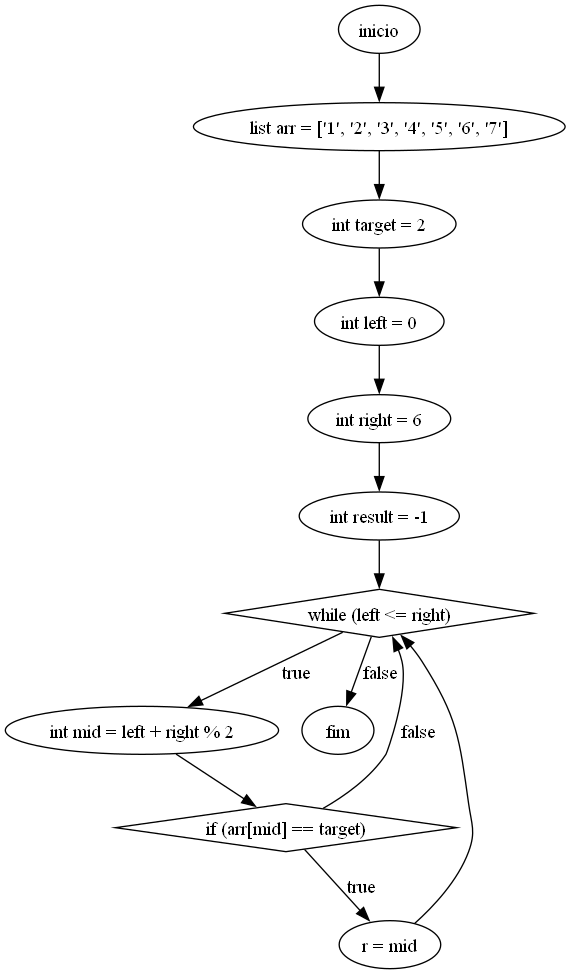
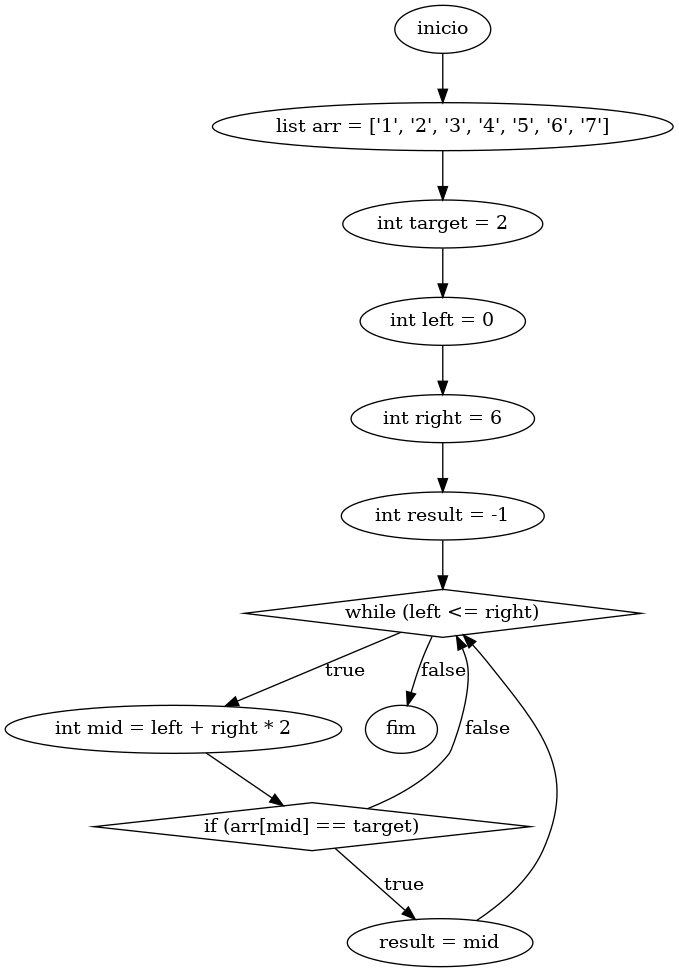
Correções nas atribuições

diff --git a/Projetos/TP2/analise.html b/Projetos/TP2/analise.html
@@ -5,9 +5,9 @@ int right = 6
 int result = -1
 
 while(left <= right){
-    int mid = (left + right)%2
+    int mid = (left + right)*2
 
     if (arr[mid] == target){
         result = mid
     }
-}</code></pre><h2>Variables and Types Used</h2><table border='1'><tr><th>Variable Name</th> <th>Type</th> <th>Value</th> <th>Used?</th></tr><tr><td>arr</td> <td>list</td> <td>[1, 2, 3, 4, 5, 6, 7]</td> <td>False</td></tr><tr><td>target</td> <td>int</td> <td>2</td> <td>True</td></tr><tr><td>left</td> <td>int</td> <td>0</td> <td>True</td></tr><tr><td>right</td> <td>int</td> <td>6</td> <td>True</td></tr><tr><td>result</td> <td>int</td> <td>0</td> <td>False</td></tr><tr><td>mid</td> <td>int</td> <td>0</td> <td>True</td></tr></table></body><h2>Errors</h2><table border='1'><tr><th style='background-color: #8B0000; color: white;'>Variable</th> <th style='background-color: #8B0000; color: white;'>Type</th> <th style='background-color: #8B0000; color: white;'>Description</th></tr><tr><td>arr[mid]</td> <td>Missing</td> <td>Variable arr[mid] isn't declared for use</td></tr></table></body><h2>Number of Variables Declared per Type</h2><table border='1'><tr><th>Type</th> <th>Vars</th> <th>Number</th></tr><tr><td>list</td> <td>arr</td> <td>1</td></tr><tr><td>int</td> <td>target, left, right, result, mid</td> <td>5</td></tr></table></body><h2>Number of Instructions Found in the Code</h2><table border='1'><tr><th>Type</th> <th>Number</th></tr><tr><td>Attributions</td> <td>1</td></tr><tr><td>Declarations</td> <td>6</td></tr><tr><td>Selections</td> <td>2</td></tr><tr><td>Cycles</td> <td>0</td></tr></table></body><h2>Number of Control Structures Nested Within Other Control Structures</h2><ul><li><p style='font-size:24px;'>Found <b>1</b> nested control structures.</p></li></ul><h2>Nested 'If' Conditions That Can be Combined</h2><table border='1'><tr><th>Suggestion</th></tr></table></body><h2>CFG Graph of the code</h2><img src="graph.png" alt="Graph"></html>
+}</code></pre><h2>Variables and Types Used</h2><table border='1'><tr><th>Variable Name</th> <th>Type</th> <th>Value</th> <th>Used?</th></tr><tr><td>arr</td> <td>list</td> <td>[1, 2, 3, 4, 5, 6, 7]</td> <td>False</td></tr><tr><td>target</td> <td>int</td> <td>2</td> <td>True</td></tr><tr><td>left</td> <td>int</td> <td>0</td> <td>True</td></tr><tr><td>right</td> <td>int</td> <td>6</td> <td>True</td></tr><tr><td>result</td> <td>int</td> <td>12</td> <td>False</td></tr><tr><td>mid</td> <td>int</td> <td>12</td> <td>True</td></tr></table></body><h2>Errors</h2><table border='1'><tr><th style='background-color: #8B0000; color: white;'>Variable</th> <th style='background-color: #8B0000; color: white;'>Type</th> <th style='background-color: #8B0000; color: white;'>Description</th></tr><tr><td>arr[mid]</td> <td>Missing</td> <td>Variable arr[mid] isn't declared for use</td></tr></table></body><h2>Number of Variables Declared per Type</h2><table border='1'><tr><th>Type</th> <th>Vars</th> <th>Number</th></tr><tr><td>list</td> <td>arr</td> <td>1</td></tr><tr><td>int</td> <td>target, left, right, result, mid</td> <td>5</td></tr></table></body><h2>Number of Instructions Found in the Code</h2><table border='1'><tr><th>Type</th> <th>Number</th></tr><tr><td>Attributions</td> <td>1</td></tr><tr><td>Declarations</td> <td>6</td></tr><tr><td>Selections</td> <td>2</td></tr><tr><td>Cycles</td> <td>0</td></tr></table></body><h2>Number of Control Structures Nested Within Other Control Structures</h2><ul><li><p style='font-size:24px;'>Found <b>1</b> nested control structures.</p></li></ul><h2>Nested 'If' Conditions That Can be Combined</h2><table border='1'><tr><th>Suggestion</th></tr></table></body><h2>CFG Graph of the code</h2><img src="graph.png" alt="Graph"></html>

diff --git a/Projetos/TP2/GraphInterpreter.py b/Projetos/TP2/GraphInterpreter.py
@@ -49,7 +49,7 @@ class GraphInterpreter(Interpreter):
         n = self.attributions["occor"]
         self.attributions["occor"] += 1
 
-        result = r[0][0] + " = "
+        result = r[0] + " = "
         if type(r[1]) is list:
             for elem in r[1]:
                 result += elem 

diff --git a/Projetos/TP2/LingInterpreter.py b/Projetos/TP2/LingInterpreter.py
@@ -1,4 +1,5 @@
 from lark.visitors import Interpreter
+from icecream import ic
 
 from script import get_type, validate_error, count_Control
 

diff --git a/Projetos/TP2/Tables/vars.md b/Projetos/TP2/Tables/vars.md
@@ -4,5 +4,5 @@
 |target|int|2|True|
 |left|int|0|True|
 |right|int|6|True|
-|result|int|0|False|
-|mid|int|0|True|
+|result|int|12|False|
+|mid|int|12|True|
